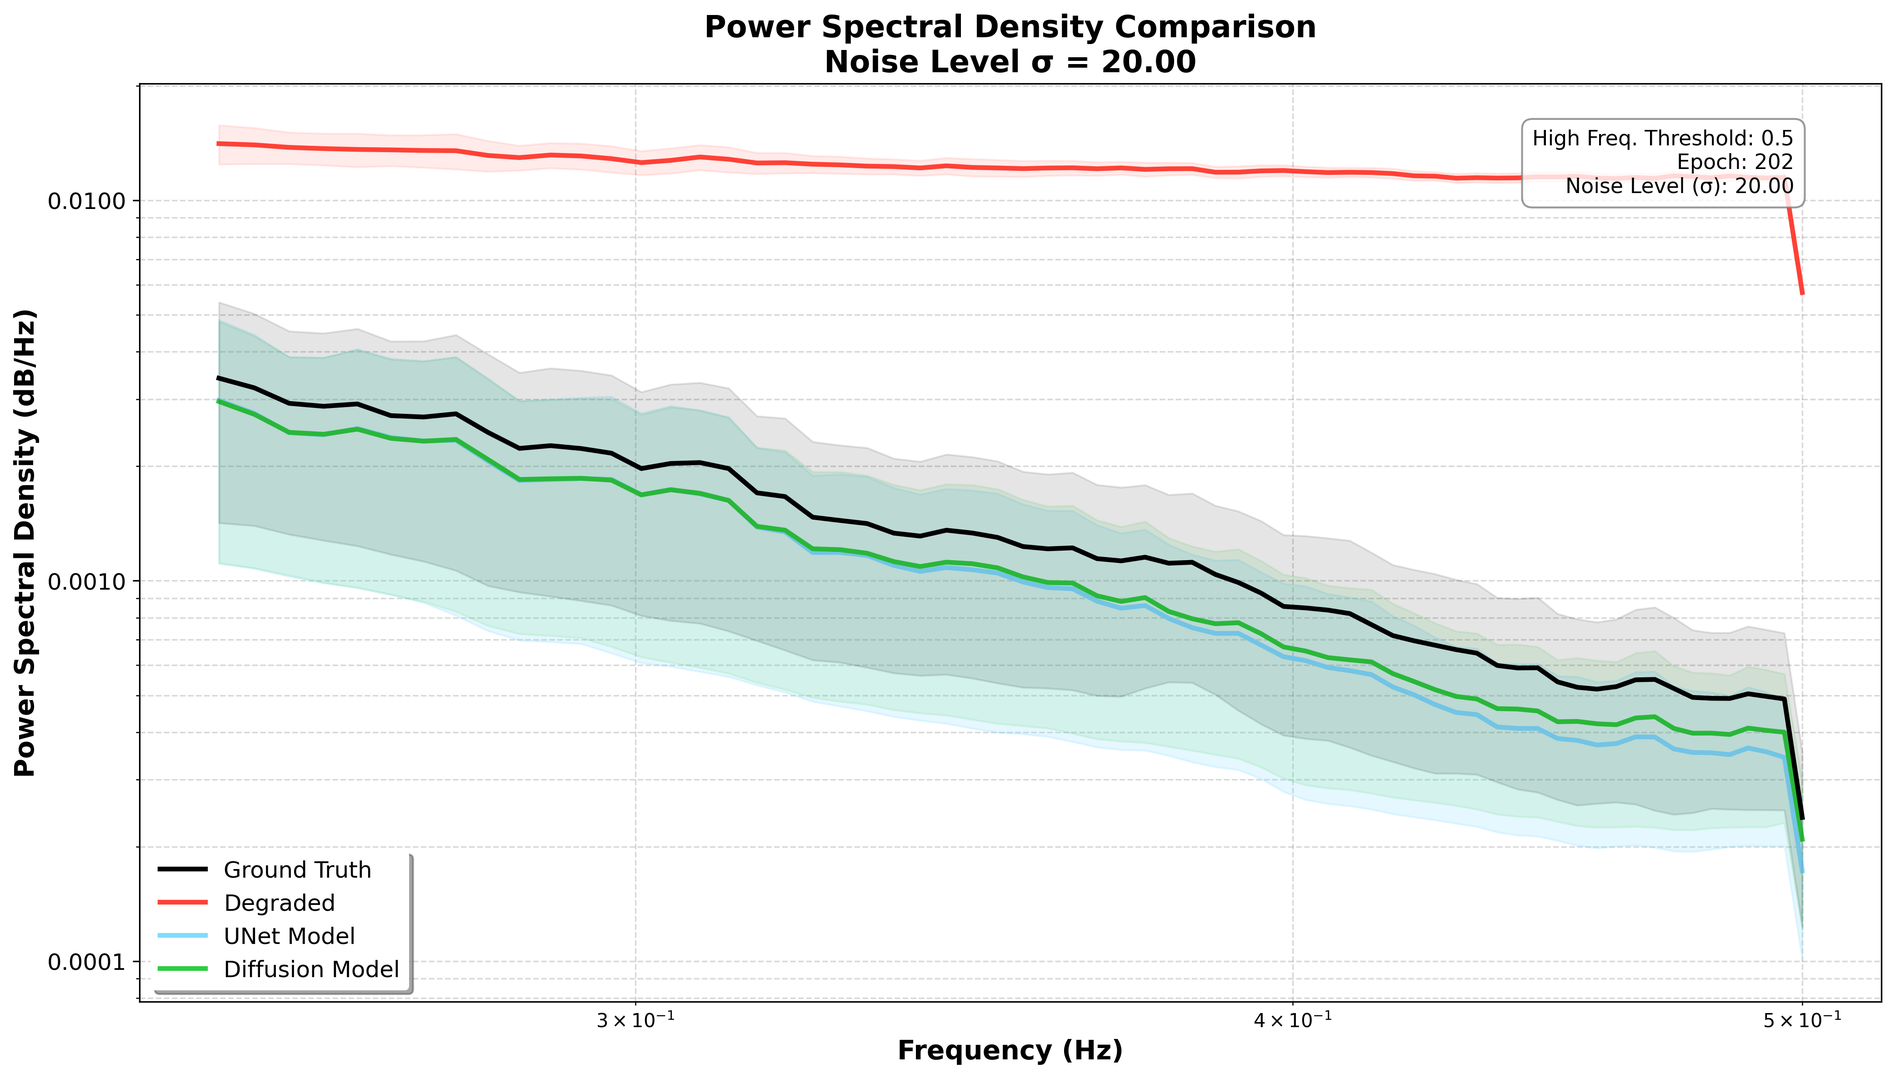
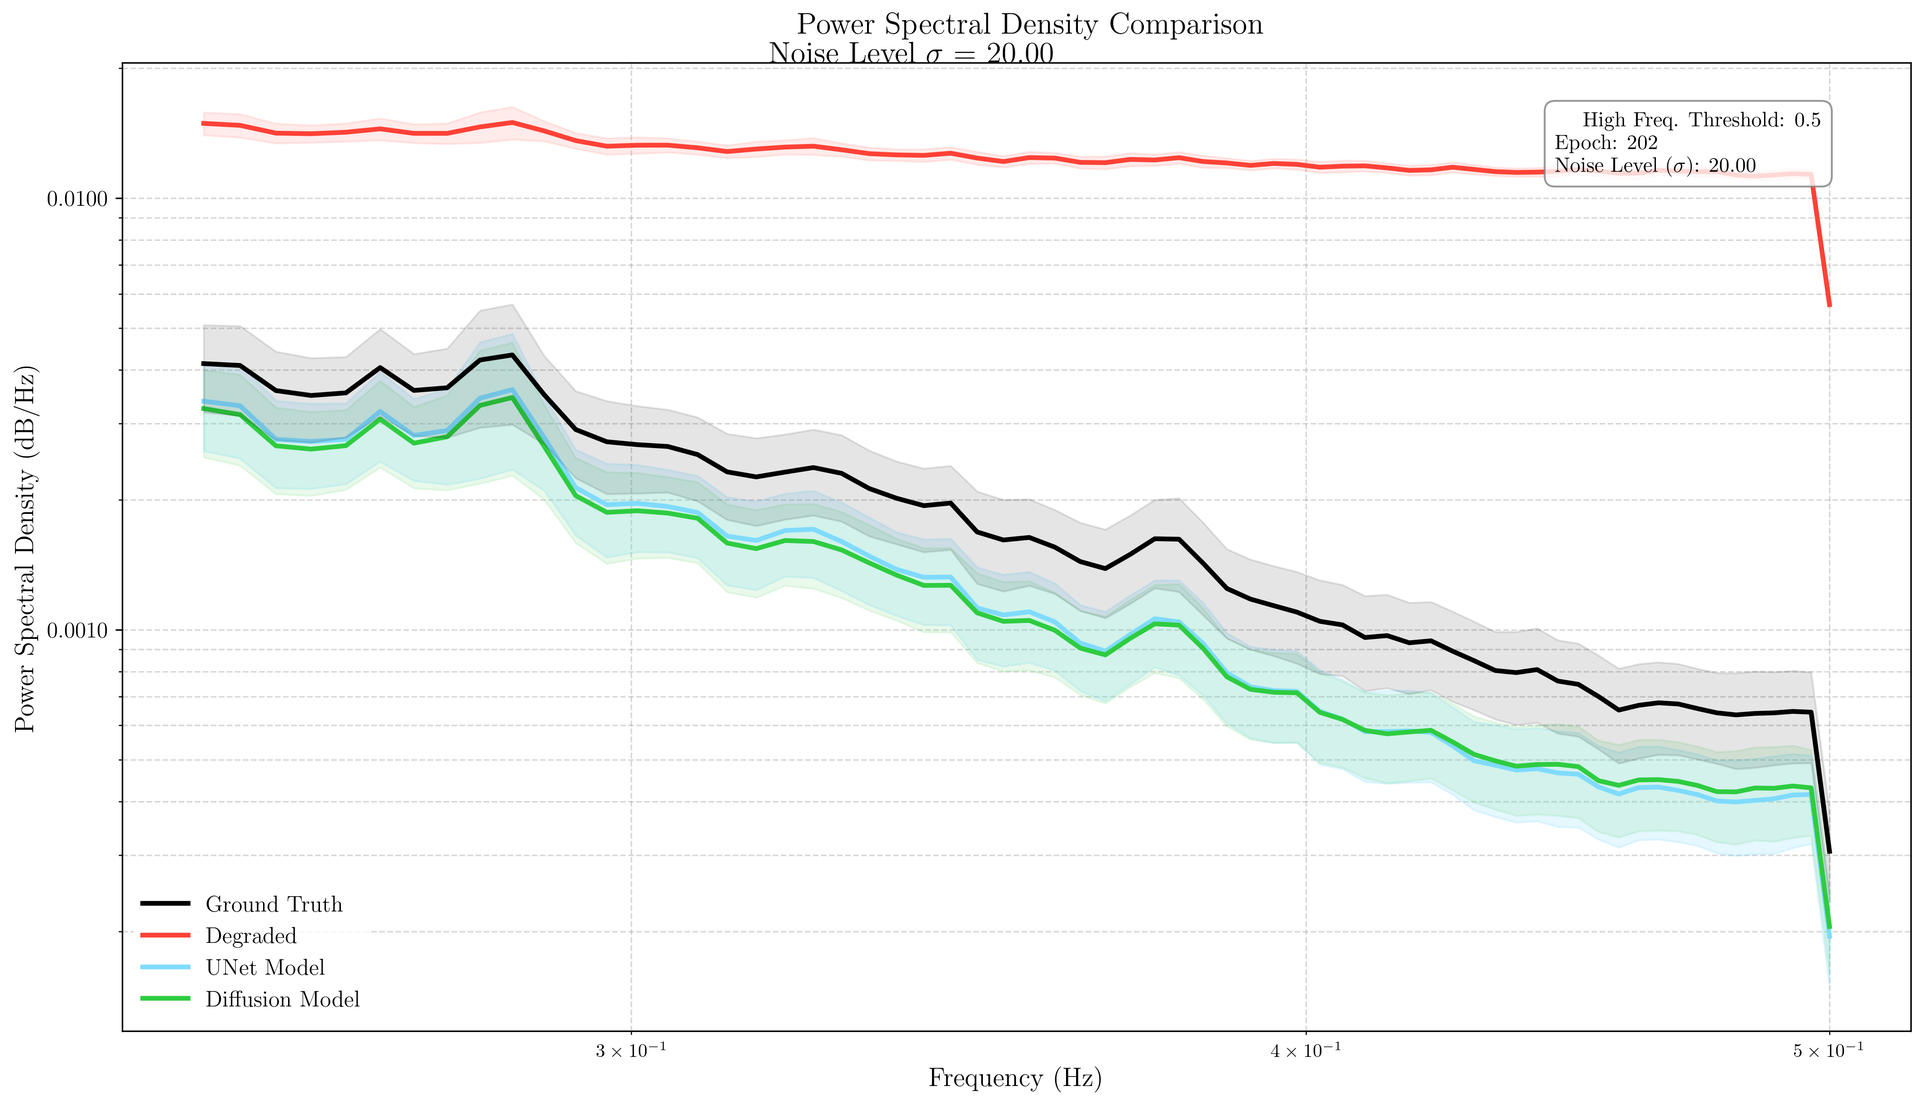
Refactor evaluate_model.py to consistently handle image shapes and convert RGB images to grayscale

diff --git a/evaluate_Unet_diffusion/plot.py b/evaluate_Unet_diffusion/plot.py
@@ -6,6 +6,17 @@ from matplotlib.colors import LinearSegmentedColormap
 from matplotlib.ticker import ScalarFormatter
 from mpl_toolkits.axes_grid1 import ImageGrid
 
+# Use the same palette for all plots (pale colors)
+pale_red = '#FF4136'
+pale_blue = '#0074D9'
+pale_green = '#2ECC40'
+pale_yellow = '#FFDC00'
+pale_purple = '#B10DC9'
+
+# Enable LaTeX rendering
+plt.rc('text', usetex=True)
+plt.rc('font', family='serif')
+
 def save_example_images(example_images, save_dir):
     noise_levels_to_plot = [10, 30, 50]
     filtered_images = {k: v for k, v in example_images.items() if k in noise_levels_to_plot}
@@ -15,13 +26,13 @@ def save_example_images(example_images, save_dir):
         print("No example images to plot.")
         return
     
-    fig = plt.figure(figsize=(16, 5 * num_levels))
+    fig = plt.figure(figsize=(16, 5 * num_levels), constrained_layout=True)
     grid = ImageGrid(fig, 111,
                      nrows_ncols=(num_levels, 4),
                      axes_pad=0.6,
                      share_all=True,
                      )
-    
+
     # Function to process and prepare image for plotting
     def process_image(img):
         img_np = np.array(img)
@@ -36,22 +47,20 @@ def save_example_images(example_images, save_dir):
         gt_image, degraded_image, predicted_unet_image, predicted_diffusion_image = images
         
         images_to_plot = [
-            ("Ground Truth", process_image(gt_image)),
-            ("Noisy", process_image(degraded_image)),
-            ("Denoised (UNet)", process_image(predicted_unet_image)),
-            ("Denoised (Diffusion)", process_image(predicted_diffusion_image))
+            (r"Ground Truth", process_image(gt_image)),
+            (r"Noisy", process_image(degraded_image)),
+            (r"Denoised (UNet)", process_image(predicted_unet_image)),
+            (r"Denoised (Diffusion)", process_image(predicted_diffusion_image))
         ]
         
         for j, (title, img) in enumerate(images_to_plot):
             ax = grid[i*4 + j]
             im = ax.imshow(img, cmap='gray' if img.ndim == 2 else None, vmin=vmin, vmax=vmax)
-            ax.set_title(f"{title}\n(σ = {sigma})", fontsize=12, fontweight='bold')
+            ax.set_title(rf"{title}\\ ($\sigma$ = {sigma})", fontsize=12, fontweight='bold')
             ax.axis('off')
             
+    plt.suptitle(r"Image Denoising Comparison Across Noise Levels", fontsize=16, fontweight='bold', y=1)
     
-    plt.suptitle("Image Denoising Comparison Across Noise Levels", fontsize=16, fontweight='bold', y=1)
-    
-    plt.tight_layout()
     plt.savefig(os.path.join(save_dir, 'example_images_comparison.png'), dpi=300, bbox_inches='tight')
     plt.close()
 
@@ -59,7 +68,7 @@ def save_error_map(gt_image, predicted_image, save_dir):
     error_map = np.abs(gt_image - predicted_image)
     plt.imshow(error_map, cmap='hot', interpolation='nearest')
     plt.colorbar()
-    plt.title('Error Map')
+    plt.title(r'Error Map', fontsize=14, fontweight='bold')
     plt.savefig(os.path.join(save_dir, 'error_map.png'))
     plt.close()
 
@@ -72,7 +81,7 @@ def save_histograms_of_differences(example_images, last_epoch, save_dir):
         print("No example images to plot.")
         return
 
-    fig, axs = plt.subplots(num_levels, 2, figsize=(20, 5 * num_levels))
+    fig, axs = plt.subplots(num_levels, 2, figsize=(20, 5 * num_levels), constrained_layout=True)
 
     # Ensure axs is a 2D array even if num_levels is 1
     if num_levels == 1:
@@ -84,23 +93,21 @@ def save_histograms_of_differences(example_images, last_epoch, save_dir):
         differences_unet = (gt_image - predicted_unet_image).flatten()
         differences_diffusion = (gt_image - predicted_diffusion_image).flatten()
 
-        axs[i, 0].hist(differences_unet, bins=50, color='blue', alpha=0.7)
-        axs[i, 0].set_title(f'Histogram of Differences (UNet) - Epoch: {epoch}, Sigma: {sigma}')
-        axs[i, 0].set_xlabel('Difference')
-        axs[i, 0].set_ylabel('Frequency')
+        axs[i, 0].hist(differences_unet, bins=50, color=pale_blue, alpha=0.7)
+        axs[i, 0].set_title(rf'Histogram of Differences (UNet) - Epoch: {epoch}, $\sigma$: {sigma}', fontsize=14, fontweight='bold')
+        axs[i, 0].set_xlabel(r'Difference', fontsize=12)
+        axs[i, 0].set_ylabel(r'Frequency', fontsize=12)
 
-        axs[i, 1].hist(differences_diffusion, bins=50, color='green', alpha=0.7)
-        axs[i, 1].set_title(f'Histogram of Differences (Diffusion) - Epoch: {epoch}, Sigma: {sigma}')
-        axs[i, 1].set_xlabel('Difference')
-        axs[i, 1].set_ylabel('Frequency')
+        axs[i, 1].hist(differences_diffusion, bins=50, color=pale_green, alpha=0.7)
+        axs[i, 1].set_title(rf'Histogram of Differences (Diffusion) - Epoch: {epoch}, $\sigma$: {sigma}', fontsize=14, fontweight='bold')
+        axs[i, 1].set_xlabel(r'Difference', fontsize=12)
+        axs[i, 1].set_ylabel(r'Frequency', fontsize=12)
 
-    plt.tight_layout()
-    plt.savefig(os.path.join(save_dir, 'histograms_of_differences.png'))
+    plt.savefig(os.path.join(save_dir, 'histograms_of_differences.png'), dpi=300)
     plt.close()
 
-
 def save_heatmaps(aggregated_diff_map_unet, aggregated_diff_map_diffusion, save_dir):
-    fig, axs = plt.subplots(1, 2, figsize=(20, 10))
+    fig, axs = plt.subplots(1, 2, figsize=(20, 10), constrained_layout=True)
 
     if aggregated_diff_map_unet.ndim == 3:
         aggregated_diff_map_unet = np.mean(aggregated_diff_map_unet, axis=0)
@@ -111,15 +118,14 @@ def save_heatmaps(aggregated_diff_map_unet, aggregated_diff_map_diffusion, save_
     vmax = max(aggregated_diff_map_unet.max(), aggregated_diff_map_diffusion.max())
 
     im_unet = axs[0].imshow(aggregated_diff_map_unet, cmap='hot', interpolation='nearest', vmin=vmin, vmax=vmax)
-    axs[0].set_title('Aggregated Difference Map (UNet)')
+    axs[0].set_title(r'Aggregated Difference Map (UNet)', fontsize=14, fontweight='bold')
     fig.colorbar(im_unet, ax=axs[0], orientation='vertical')
 
     im_diffusion = axs[1].imshow(aggregated_diff_map_diffusion, cmap='hot', interpolation='nearest', vmin=vmin, vmax=vmax)
-    axs[1].set_title('Aggregated Difference Map (Diffusion)')
+    axs[1].set_title(r'Aggregated Difference Map (Diffusion)', fontsize=14, fontweight='bold')
     fig.colorbar(im_diffusion, ax=axs[1], orientation='vertical')
 
-    plt.tight_layout()
-    plt.savefig(os.path.join(save_dir, 'heatmaps.png'))
+    plt.savefig(os.path.join(save_dir, 'heatmaps.png'), dpi=300)
     plt.close()
 
 def save_frequency_domain_analysis(metrics, last_epoch, save_dir, high_freq_threshold=0.5):
@@ -162,26 +168,26 @@ def save_frequency_domain_analysis(metrics, last_epoch, save_dir, high_freq_thre
         sem_mae_diff_unet.append(np.std(mae_diff_unet) / np.sqrt(len(mae_diff_unet)))
         sem_mae_diff_diffusion.append(np.std(mae_diff_diffusion) / np.sqrt(len(mae_diff_diffusion)))
 
-    fig, ax = plt.subplots(figsize=(12, 8))
+    fig, ax = plt.subplots(figsize=(12, 8), constrained_layout=True)
 
     # Plot with error bands
-    ax.plot(unique_noise_levels, avg_mae_diff_unet, '-', label='UNet Model', color='#7FDBFF', linewidth=2.5, marker='o', markersize=8)
+    ax.plot(unique_noise_levels, avg_mae_diff_unet, '-', label=r'UNet Model', color=pale_blue, linewidth=2.5, marker='o', markersize=8)
     ax.fill_between(unique_noise_levels, 
                     np.array(avg_mae_diff_unet) - np.array(sem_mae_diff_unet),
                     np.array(avg_mae_diff_unet) + np.array(sem_mae_diff_unet),
-                    color='#7FDBFF', alpha=0.2)
+                    color=pale_blue, alpha=0.2)
 
-    ax.plot(unique_noise_levels, avg_mae_diff_diffusion, '-', label='Diffusion Model', color='#2ECC40', linewidth=2.5, marker='s', markersize=8)
+    ax.plot(unique_noise_levels, avg_mae_diff_diffusion, '-', label=r'Diffusion Model', color=pale_green, linewidth=2.5, marker='s', markersize=8)
     ax.fill_between(unique_noise_levels, 
                     np.array(avg_mae_diff_diffusion) - np.array(sem_mae_diff_diffusion),
                     np.array(avg_mae_diff_diffusion) + np.array(sem_mae_diff_diffusion),
-                    color='#2ECC40', alpha=0.2)
+                    color=pale_green, alpha=0.2)
 
-    ax.set_xlabel('Noise Standard Deviation (σ)', fontsize=14, fontweight='bold')
-    ax.set_ylabel('MAE in High-Frequency Domain', fontsize=14, fontweight='bold')
-    ax.set_title('High-Frequency Domain Analysis of Denoising Models', fontsize=16, fontweight='bold')
+    ax.set_xlabel(r'Noise Standard Deviation ($\sigma$)', fontsize=14, fontweight='bold')
+    ax.set_ylabel(r'MAE in High-Frequency Domain', fontsize=14, fontweight='bold')
+    ax.set_title(r'High-Frequency Domain Analysis of Denoising Models', fontsize=16, fontweight='bold')
 
-    ax.legend(fontsize=12, loc='upper right', frameon=True, facecolor='white', edgecolor='none', shadow=True)
+    ax.legend(fontsize=12, loc='upper right', frameon=True, facecolor='white', edgecolor='none')
     ax.grid(True, which="both", ls="--", alpha=0.3, color='gray')
 
     # Format ticks
@@ -193,12 +199,11 @@ def save_frequency_domain_analysis(metrics, last_epoch, save_dir, high_freq_thre
     ax.set_yscale('log')
 
     # Add textbox with parameters
-    textstr = f'High Freq. Threshold: {high_freq_threshold}\nEpoch: {last_epoch}'
+    textstr = rf'High Freq. Threshold: {high_freq_threshold}\\ Epoch: {last_epoch}'
     props = dict(boxstyle='round,pad=0.5', facecolor='white', edgecolor='gray', alpha=0.8)
     ax.text(0.05, 0.95, textstr, transform=ax.transAxes, fontsize=11,
             verticalalignment='top', bbox=props)
 
-    plt.tight_layout()
     plt.savefig(os.path.join(save_dir, 'high_frequency_domain_analysis.png'), dpi=300, bbox_inches='tight')
     plt.close()
 
@@ -241,27 +246,25 @@ def save_frequency_domain_analysis_multiple_epochs(metrics, epochs, save_dir, hi
         for epoch in epochs:
             avg_mae_diff_diffusion[epoch].append(np.mean(mae_diff_diffusion[epoch]))
 
-    plt.figure(figsize=(10, 6))
-    plt.plot(unique_noise_levels, avg_mae_diff_unet, 'o-', label='UNet Model', color='purple')
-    colors = ['green', 'blue', 'orange', 'red', 'black', 'brown', 'pink', 'gray', 'cyan', 'magenta']
+    plt.figure(figsize=(10, 6), constrained_layout=True)
+    plt.plot(unique_noise_levels, avg_mae_diff_unet, 'o-', label=r'UNet Model', color=pale_purple)
+    colors = [pale_green, pale_blue, pale_red, pale_yellow, 'black', 'brown', 'pink', 'gray', 'cyan', 'magenta']
     for idx, epoch in enumerate(epochs):
-        plt.plot(unique_noise_levels, avg_mae_diff_diffusion[epoch], 'o-', label=f'Diffusion Model (Epoch {epoch})', color=colors[idx % len(colors)])
-    plt.xlabel('Noise Standard Deviation')
-    plt.ylabel('MAE in High-Frequency Domain')
-    plt.title('MAE in High-Frequency Domain Analysis')
+        plt.plot(unique_noise_levels, avg_mae_diff_diffusion[epoch], 'o-', label=rf'Diffusion Model (Epoch {epoch})', color=colors[idx % len(colors)])
+    plt.xlabel(r'Noise Standard Deviation ($\sigma$)', fontsize=14)
+    plt.ylabel(r'MAE in High-Frequency Domain', fontsize=14)
+    plt.title(r'MAE in High-Frequency Domain Analysis', fontsize=16)
     plt.legend()
     plt.grid()
-    plt.tight_layout()
     plt.savefig(os.path.join(save_dir, 'high_frequency_domain_analysis_multiple_epochs.png'))
     plt.close()
 
 def plot_psd_comparison(metrics, last_epoch, save_dir, high_freq_threshold=0.5):
-    epochs = sorted(set(metrics['epoch']))
     noise_levels = np.array(metrics['noise_level'])
     unique_noise_levels = sorted(np.unique(noise_levels))
     
     # Create a colorblind-friendly colormap
-    colors = ['#FFEDA0', '#FEB24C', '#F03B20']  # Light yellow to orange to dark red
+    colors = [pale_yellow, pale_red, pale_green]  # Light yellow to orange to dark red
     n_bins = len(unique_noise_levels)
     cmap = LinearSegmentedColormap.from_list("custom", colors, N=n_bins)
     
@@ -302,7 +305,7 @@ def plot_psd_comparison(metrics, last_epoch, save_dir, high_freq_threshold=0.5):
         se_unet = np.std(psd_unet_all, axis=0) / np.sqrt(len(psd_unet_all))
         se_diffusion = np.std(psd_diffusion_all, axis=0) / np.sqrt(len(psd_diffusion_all))
 
-        fig, ax = plt.subplots(figsize=(14, 8))
+        fig, ax = plt.subplots(figsize=(14, 8), constrained_layout=True)
         
         # Plot with error bands
         ax.plot(f_gt[high_freq_idx], avg_psd_gt, label='Ground Truth', color='#000000', linewidth=2.5, zorder=5)
@@ -317,12 +320,12 @@ def plot_psd_comparison(metrics, last_epoch, save_dir, high_freq_threshold=0.5):
         ax.plot(f_gt[high_freq_idx], avg_psd_diffusion, label=f'Diffusion Model', color='#2ECC40', linewidth=2.5, zorder=3)
         ax.fill_between(f_gt[high_freq_idx], avg_psd_diffusion - se_diffusion, avg_psd_diffusion + se_diffusion, color='#2ECC40', alpha=0.1, zorder=2)
 
-        ax.set_xlabel('Frequency (Hz)', fontsize=14, fontweight='bold')
-        ax.set_ylabel('Power Spectral Density (dB/Hz)', fontsize=14, fontweight='bold')
+        ax.set_xlabel(r'Frequency (Hz)', fontsize=14, fontweight='bold')
+        ax.set_ylabel(r'Power Spectral Density (dB/Hz)', fontsize=14, fontweight='bold')
         ax.set_yscale('log')
         ax.set_xscale('log')
-        ax.set_title(f'Power Spectral Density Comparison\nNoise Level σ = {nl:.2f}', fontsize=16, fontweight='bold')
-        ax.legend(fontsize=12, loc='lower left', frameon=True, facecolor='white', edgecolor='none', shadow=True)
+        ax.set_title(rf'Power Spectral Density Comparison\\Noise Level $\sigma$ = {nl:.2f}', fontsize=16, fontweight='bold')
+        ax.legend(fontsize=12, loc='lower left', frameon=True, facecolor='white', edgecolor='none')
         ax.grid(True, which="both", ls="--", alpha=0.3, color='gray')
         
         # Format ticks
@@ -331,17 +334,15 @@ def plot_psd_comparison(metrics, last_epoch, save_dir, high_freq_threshold=0.5):
         ax.tick_params(axis='both', which='major', labelsize=12)
         
         # Add textbox with parameters
-        textstr = f'High Freq. Threshold: {high_freq_threshold}\nEpoch: {last_epoch}\nNoise Level (σ): {nl:.2f}'
+        textstr = rf'High Freq. Threshold: {high_freq_threshold}\\ Epoch: {last_epoch}\\ Noise Level ($\sigma$): {nl:.2f}'
         props = dict(boxstyle='round,pad=0.5', facecolor='white', edgecolor='gray', alpha=0.8)
         ax.text(0.95, 0.95, textstr, transform=ax.transAxes, fontsize=11,
                 verticalalignment='top', horizontalalignment='right', bbox=props)
 
-        plt.tight_layout()
         plt.savefig(os.path.join(save_dir, f'psd_comparison_noise_level_{nl:.2f}.png'), dpi=300, bbox_inches='tight')
         plt.close()
 
 def save_dists(metrics, last_epoch, save_dir):
-    epochs = sorted(set(metrics['epoch']))
     noise_levels = np.array(metrics['noise_level'])
     dists_degraded = np.array(metrics['dists_degraded'])
     dists_diffusion = np.array(metrics['dists_diffusion'])
@@ -355,35 +356,34 @@ def save_dists(metrics, last_epoch, save_dir):
     avg_dists_unet = [np.mean(dists_unet[noise_levels == nl]) for nl in unique_noise_levels]
     avg_dists_bm3d = [np.mean(dists_bm3d[noise_levels == nl]) for nl in unique_noise_levels]
 
-    fig, axs = plt.subplots(1, 1, figsize=(10, 6))
+    fig, axs = plt.subplots(1, 1, figsize=(10, 6), constrained_layout=True)
 
-    axs.plot(unique_noise_levels, avg_dists_degraded, 'o-', label='Degraded', color='red')
-    axs.plot(unique_noise_levels, avg_dists_unet, 'o-', label='UNet Model', color='purple')
-    axs.plot(unique_noise_levels, avg_dists_diffusion_last, 'o-', label=f'Diffusion Model (Epoch {last_epoch})', color='green')
-    axs.plot(unique_noise_levels, avg_dists_bm3d, 'o-', label='BM3D', color='blue')
+    axs.plot(unique_noise_levels, avg_dists_degraded, 'o-', label=r'Degraded', color=pale_red)
+    axs.plot(unique_noise_levels, avg_dists_unet, 'o-', label=r'UNet Model', color=pale_purple)
+    axs.plot(unique_noise_levels, avg_dists_diffusion_last, 'o-', label=rf'Diffusion Model (Epoch {last_epoch})', color=pale_green)
+    axs.plot(unique_noise_levels, avg_dists_bm3d, 'o-', label=r'BM3D', color=pale_blue)
 
-    axs.set_xlabel('Noise Standard Deviation')
-    axs.set_ylabel('DISTS')
-    axs.set_title('DISTS value variation curve')
-    axs.legend()
-    axs.grid()
+    axs.set_xlabel(r'Noise Standard Deviation ($\sigma$)', fontsize=14, fontweight='bold')
+    axs.set_ylabel(r'DISTS', fontsize=14, fontweight='bold')
+    axs.set_title(r'DISTS Value Variation', fontsize=16, fontweight='bold')
+    axs.legend(fontsize=12)
+    axs.grid(True, which="both", ls="--", alpha=0.3)
 
-    plt.tight_layout()
-    plt.savefig(os.path.join(save_dir, 'dists.png'))
+    plt.savefig(os.path.join(save_dir, 'dists.png'), dpi=300, bbox_inches='tight')
     plt.close()
 
 def save_inference_time_plot(inference_times, save_dir):
     avg_inference_time_unet = np.mean(inference_times['unet'])
     avg_inference_time_diffusion = np.mean(inference_times['diffusion'])
 
-    labels = ['UNet', 'Diffusion']
+    labels = [r'UNet', r'Diffusion']
     times = [avg_inference_time_unet, avg_inference_time_diffusion]
 
-    plt.figure(figsize=(10, 6))
-    plt.bar(labels, times, color=['purple', 'green'])
-    plt.ylabel('Average Inference Time (s)')
-    plt.title('Average Inference Time Comparison')
-    plt.savefig(os.path.join(save_dir, 'inference_time_comparison.png'))
+    plt.figure(figsize=(10, 6), constrained_layout=True)
+    plt.bar(labels, times, color=[pale_purple, pale_green])
+    plt.ylabel(r'Average Inference Time (s)', fontsize=14, fontweight='bold')
+    plt.title(r'Average Inference Time Comparison', fontsize=16, fontweight='bold')
+    plt.savefig(os.path.join(save_dir, 'inference_time_comparison.png'), dpi=300, bbox_inches='tight')
     plt.close()
 
 def generate_comparison_plot(metrics, epochs, save_dir, use_bm3d=False):
@@ -395,7 +395,6 @@ def generate_comparison_plot(metrics, epochs, save_dir, use_bm3d=False):
     lpips_diffusion = np.array(metrics['lpips_diffusion'])
     lpips_unet = np.array(metrics['lpips_unet'])
     
-    # Check if BM3D data exists and if use_bm3d is True
     use_bm3d = use_bm3d and 'psnr_bm3d' in metrics and 'lpips_bm3d' in metrics
     if use_bm3d:
         psnr_bm3d = np.array(metrics['psnr_bm3d'])
@@ -410,42 +409,42 @@ def generate_comparison_plot(metrics, epochs, save_dir, use_bm3d=False):
         avg_psnr_bm3d = [np.mean(psnr_bm3d[noise_levels == nl]) for nl in unique_noise_levels]
         avg_lpips_bm3d = [np.mean(lpips_bm3d[noise_levels == nl]) for nl in unique_noise_levels]
 
-    fig, ax = plt.subplots(figsize=(12, 8))
+    fig, ax = plt.subplots(figsize=(12, 8), constrained_layout=True)
     
     # Create a colorblind-friendly colormap
     colors = ['#FFEDA0', '#FEB24C', '#F03B20']  # Light yellow to orange to dark red
     n_bins = len(unique_noise_levels)
     cmap = LinearSegmentedColormap.from_list("custom", colors, N=n_bins)
     
+
     # Plot with color gradient
     scatter_diffusion = ax.scatter(avg_lpips_diffusion, avg_psnr_diffusion,
                                    c=unique_noise_levels, cmap=cmap,
-                                   label='Diffusion Model', marker='*', s=200, edgecolors='black')
+                                   label=r'Diffusion Model', marker='*', s=200, edgecolors='black')
     
     scatter_unet = ax.scatter(avg_lpips_unet, avg_psnr_unet,
                               c=unique_noise_levels, cmap=cmap,
-                              label='UNet Model', marker='o', s=200, edgecolors='black')
+                              label=r'UNet Model', marker='o', s=200, edgecolors='black')
     
     if use_bm3d:
         scatter_bm3d = ax.scatter(avg_lpips_bm3d, avg_psnr_bm3d,
                                   c=unique_noise_levels, cmap=cmap,
-                                  label='BM3D', marker='^', s=200, edgecolors='black')
+                                  label=r'BM3D', marker='^', s=200, edgecolors='black')
     
-    # Add colorbar
     cbar = plt.colorbar(scatter_diffusion)
-    cbar.set_label('Noise Level', rotation=270, labelpad=15)
+    cbar.set_label(r'Noise Level ($\sigma$)', rotation=270, labelpad=15)
     
-    ax.set_xlabel('LPIPS (lower is better)', fontsize=12)
-    ax.set_ylabel('PSNR (higher is better)', fontsize=12)
-    ax.set_title('Model Comparison across Noise Levels', fontsize=14)
-    ax.legend(fontsize=10)
+    ax.set_xlabel(r'LPIPS (lower is better)', fontsize=14, fontweight='bold')
+    ax.set_ylabel(r'PSNR (higher is better)', fontsize=14, fontweight='bold')
+    ax.set_title(r'Model Comparison Across Noise Levels', fontsize=16, fontweight='bold')
+    ax.legend(fontsize=12)
     ax.grid(True, linestyle='--', alpha=0.7)
     
     # Add arrows to indicate better performance directions
     ax.annotate('', xy=(0.05, 0.95), xytext=(0.15, 0.95),
                 xycoords='axes fraction', textcoords='axes fraction',
                 arrowprops=dict(arrowstyle='->', color='gray'))
-    ax.text(0.1, 0.97, 'Better LPIPS', ha='center', va='center',
+    ax.text(0.1, 0.97, r'Better LPIPS', ha='center', va='center',
             transform=ax.transAxes, fontsize=10, color='gray')
 
     ax.annotate('', xy=(0.95, 0.85), xytext=(0.95, 0.95),
@@ -454,6 +453,5 @@ def generate_comparison_plot(metrics, epochs, save_dir, use_bm3d=False):
     ax.text(0.97, 0.9, 'Better PSNR', ha='center', va='center',
             transform=ax.transAxes, fontsize=10, color='gray', rotation=90)
 
-    plt.tight_layout()
     plt.savefig(os.path.join(save_dir, 'comparison_plot.png'), dpi=300, bbox_inches='tight')
     plt.close(fig)
